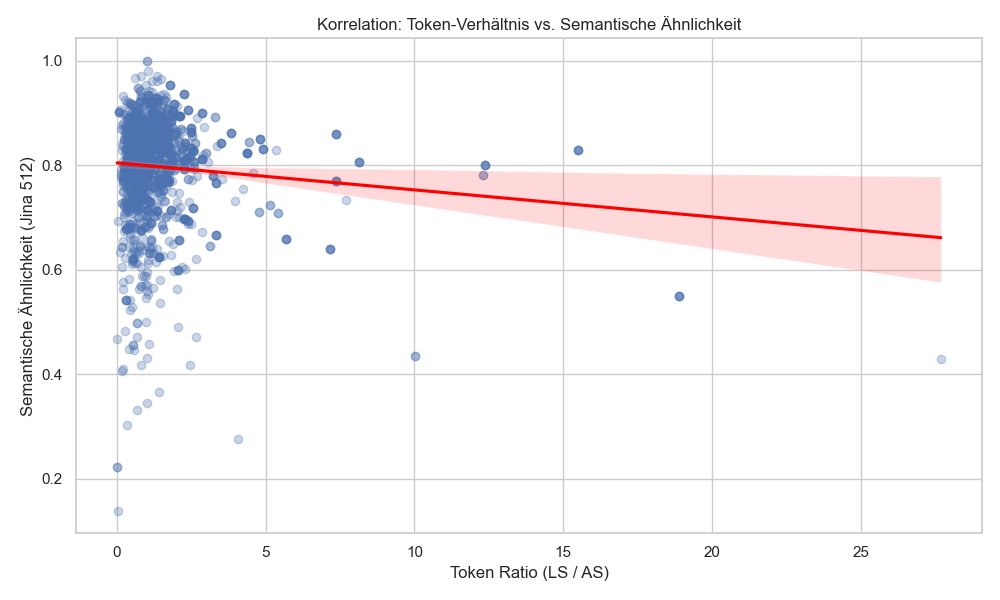
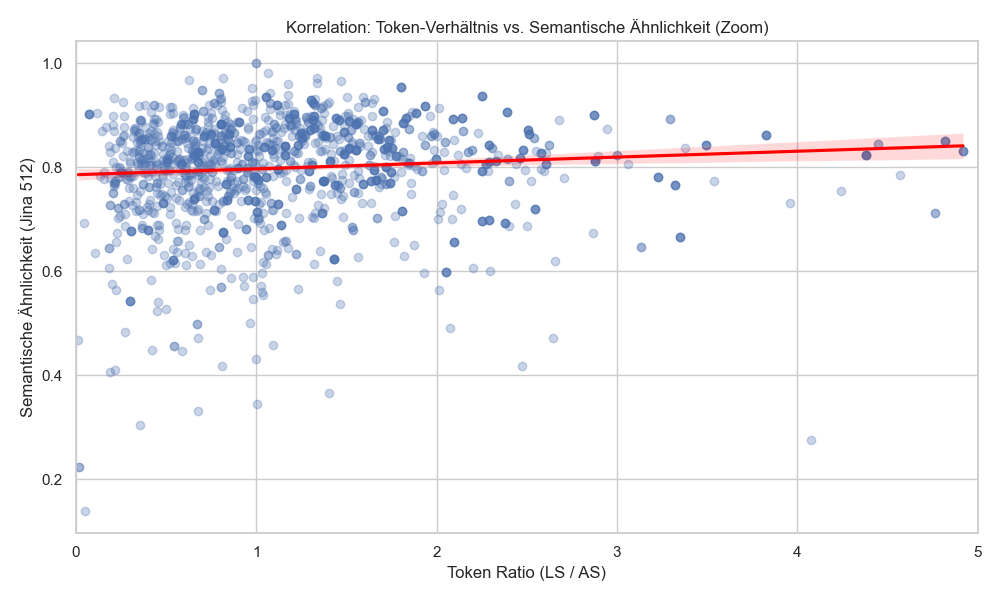
feat: add slides to week 08

diff --git a/scripts/visualize_analysis.py b/scripts/visualize_analysis.py
@@ -77,10 +77,13 @@ def create_visualizations(plots_to_run):
         print("Generating Token Ratio vs Semantic Similarity...")
         # 3. Token Ratio vs Semantic Similarity
         plt.figure(figsize=(10, 6))
-        sns.regplot(data=df, x='token_ratio', y='semantic_similarity_512', scatter_kws={'alpha':0.3}, line_kws={'color':'red'})
-        plt.title('Korrelation: Token-Verhältnis vs. Semantische Ähnlichkeit')
+        # Filter extreme outliers to make the plot readable (most data is < 5)
+        df_filtered = df[df['token_ratio'] <= 5]
+        sns.regplot(data=df_filtered, x='token_ratio', y='semantic_similarity_512', scatter_kws={'alpha':0.3}, line_kws={'color':'red'})
+        plt.title('Korrelation: Token-Verhältnis vs. Semantische Ähnlichkeit (Zoom)')
         plt.xlabel('Token Ratio (LS / AS)')
         plt.ylabel('Semantische Ähnlichkeit (Jina 512)')
+        plt.xlim(0, 5)  # Restrict x-axis to zoom in on the cluster
         plt.tight_layout()
         plt.savefig(os.path.join(OUTPUT_DIR, 'token_ratio_vs_similarity_scatter.png'))
         plt.close()

diff --git a/research/fiete_scheel_weekly.md b/research/fiete_scheel_weekly.md
@@ -917,28 +917,190 @@ Why do many government sites offer so little parallel data?
 
 ---
 
+<!-- _class: section-header -->
+
+## Week 8 
+
+---
+
+### Corpus Analysis
+
+*   **Problem:** Initial SBERT analysis (Week 7) was limited to **128 tokens**, resulting in >90% of articles being truncated.
+*   **Goal:** Increase model coverage and validate if semantic similarity holds across full-length articles.
+*   **Methodology Update:**
+    *   Scale up to **512 tokens** (MiniLM limit).
+    *   Introduction of **Jina Embeddings v2** (8192 tokens) for 100% coverage.
+    *   **Bidirectional NER:** Analysis of "Faktentreue" (LS -> AS).
+
+---
+<!-- _class: image-caption -->
+
+### Article Length Distribution
+
+![Verteilung der Artikellängen](img/analysis/article_length_distribution.png)
+
+---
+
+### SBERT Limitation & Coverage Analysis
+
+A statistical review of token counts revealed that the 128-token limit was capturing primarily "teasers" or "introductions," which often contain boilerplate or navigation instructions in LS.
+
+| Coverage | AS (Limit: 128) | LS (Limit: 128) | AS (Limit: 512) | LS (Limit: 512) |
+| :--- | :---: | :---: | :---: | :---: |
+| **Fully Captured** | 9.4 % | 5.1 % | **56.9 %** | **52.9 %** |
+| **Truncated** | 90.6 % | 94.9 % | **43.1 %** | **47.1 %** |
+
+**Lesson Learned:** Even at 512 tokens, nearly half of the corpus is cut off. This necessitated the switch to a long-context model (Jina) to ensure total information retention during analysis.
+
+---
+
+### Optimized Analysis: 128 vs. 512 Tokens
+
+Increasing the context window significantly changed the measured similarity for most sources.
+
+| Source | Sim (128 Tokens) | Sim (512 Tokens) | Difference |
+| :--- | :---: | :---: | :---: |
+| **apotheken** | 0.636 | **0.894** | +0.258 |
+| **hamburg** | 0.665 | **0.804** | +0.139 |
+| **koeln** | 0.684 | **0.833** | +0.149 |
+| **sozialpolitik** | 0.706 | **0.850** | +0.144 |
+| **wiesbaden** | **0.750** | 0.642 | -0.108 |
+
+**Interpretation:** For long texts (Apotheken, Köln), similarity rises with context. For others (Wiesbaden), it drops, indicating that while introductions are aligned, the core content diverges significantly.
+
+---
 <!-- _class: split -->
 
-### Next Steps
+### Model Comparison: MiniLM vs. Jina (128 & 512 Tokens)
 
 <div class="column-left">
 
-**Track 1: Corpus Optimization**
+To ensure the model choice introduces no bias, we compared the original model (`MiniLM`) with the new one (`jina-embeddings-v2-base-de`) at identical limits.
 
-*   **Outlier Removal:** Filtering out extreme alignment outliers (e.g., highly skewed token ratios or extremely low semantic similarity).
-*   **Data Cleaning & Review:** Systematic review and refinement of the existing dataset based on the newly gathered metrics and statistics.
-*   **Expansion:** Continuous sourcing of new portals and evaluation of historical Wayback Machine data.
+
+**Conclusion:** 
+- **Same Trends:** Higher context equals higher similarity in both.
+- **Stability:** Jina is more stable with longer texts (e.g., Wiesbaden doesn't drop abruptly). It validates that LS stays semantically close to AS.
 
 </div>
 
 <div class="column-right">
 
-**Track 2: Metric Model Training**
-
-*   **Training Set Construction:** Converting the refined parallel corpus into a training dataset for classification and regression tasks.
-*   **Model Selection:** Evaluating modern transformer architectures (e.g., Cross-Encoders) specifically for German language level detection.
-*   **Baseline Establishment:** Training a first version of the metric to achieve a robust baseline for distinguishing between AS and LS.
-*   **Feature Integration:** Incorporating semantic similarity and information retention into the scoring mechanism.
+| Source | MiniLM (128) | Jina (128) | MiniLM (512) | Jina (512) |
+| :--- | :---: | :---: | :---: | :---: |
+| **apotheken** | 0.636 | 0.688 | **0.894** | 0.800 |
+| **behindertenbeauftragter**| 0.746 | 0.756 | 0.761 | **0.793** |
+| **brandeins** | **0.637** | 0.549 | **0.698** | 0.599 |
+| **hamburg** | 0.665 | **0.690** | **0.804** | 0.790 |
+| **hannover** | 0.706 | **0.742** | 0.776 | **0.807** |
+| **koeln** | 0.684 | 0.693 | **0.833** | 0.782 |
+| **main_taunus** | 0.762 | 0.763 | 0.727 | **0.794** |
+| **mdr** | 0.733 | 0.731 | 0.766 | **0.784** |
+| **sozialpolitik** | **0.706** | 0.694 | **0.850** | 0.760 |
+| **stuttgart** | **0.896** | 0.884 | 0.856 | **0.884** |
+| **wiesbaden** | 0.750 | 0.754 | 0.642 | **0.777** |
 
 </div>
+
+
+
+---
+
+### Solving Truncation: The Jina Model (8192 Tokens)
+
+| Source | Jina (128 Tokens) | Jina (512 Tokens) | Jina (Full / 8192) |
+| :--- | :---: | :---: | :---: |
+| **apotheken** | 0.688 | 0.800 | **0.836** |
+| **behindertenbeauftragter** | 0.756 | 0.793 | **0.804** |
+| **hannover** | 0.742 | 0.807 | **0.828** |
+| **koeln** | 0.693 | 0.782 | **0.829** |
+| **stuttgart** | **0.884** | 0.884 | 0.821 |
+
+---
+
+<!-- _class: image-caption -->
+
+### Solving Truncation: The Jina Model (8192 Tokens)
+
+![Einfluss der Kontextlänge auf Semantische Ähnlichkeit](img/analysis/jina_context_comparison.png)
+
+---
+
+<!-- _class: split -->
+
+### Bidirectional NER: Does LS "Invent" Facts?
+
+<div class="column-left">
+
+We measured not just what survives (AS -> LS), but also if LS introduces new entities (LS -> AS).
+
+**Finding:** Both metrics are low. LS doesn't necessarily invent facts, but it rephrases entities into common nouns (e.g., "Arbeitsagentur" -> "Amt"), which current NER models fail to align.
+
+</div>
+
+<div class="column-right">
+
+![Bidirektionales NER](img/analysis/bidirectional_ner_comparison.png)
+
+</div>
+
+---
+
+<!-- _class: split -->
+
+### Correlation: Token-Ratio vs. Similarity
+
+<div class="column-left">
+
+**Finding:** No significant linear correlation between text length expansion and semantic similarity.
+
+Longer explanations in LS don't automatically guarantee higher semantic proximity to the original.
+
+</div>
+
+<div class="column-right">
+
+![Korrelation Token-Ratio vs Similarity](img/analysis/token_ratio_vs_similarity_scatter.png)
+
+</div>
+
+---
+
+<!-- _class: image-caption -->
+
+### Manual Audit & Corpus Cleaning
+
+![Histogramm der Ähnlichkeitsverteilung](img/analysis/similarity_distribution_hist.png)
+
+
+---
+
+<!-- _class: split -->
+
+### Linguistic Shifts: Sentence Length
+
+<div class="column-left">
+
+Analysis of 1,526 pairs confirms structural simplification.
+
+*   **Sentence Length:** Dropped from **15.6 tokens** (AS) to **9.1 tokens** (LS) – a 42% reduction.
+*   **Impact:** Drastic reduction in cognitive load per processing unit.
+
+</div>
+
+<div class="column-right">
+
+![Vergleich der Satzlängen](img/analysis/sentence_length_comparison_bar.png)
+
+</div>
+
+---
+
+### Next Steps
+
+1.  **Dataset Cleaning:** Apply the 0.6 - 0.98 similarity filter to create the "Gold Standard" training corpus. Also look for all other extremes like ratio too high etc.
+
+**Thesis-Titel**
+
+Entwicklung domänenspezifischer Datensätze und automatisierter Evaluation für ein Framework zur neuronalen Textvereinfachung in Leichte Sprache
 
